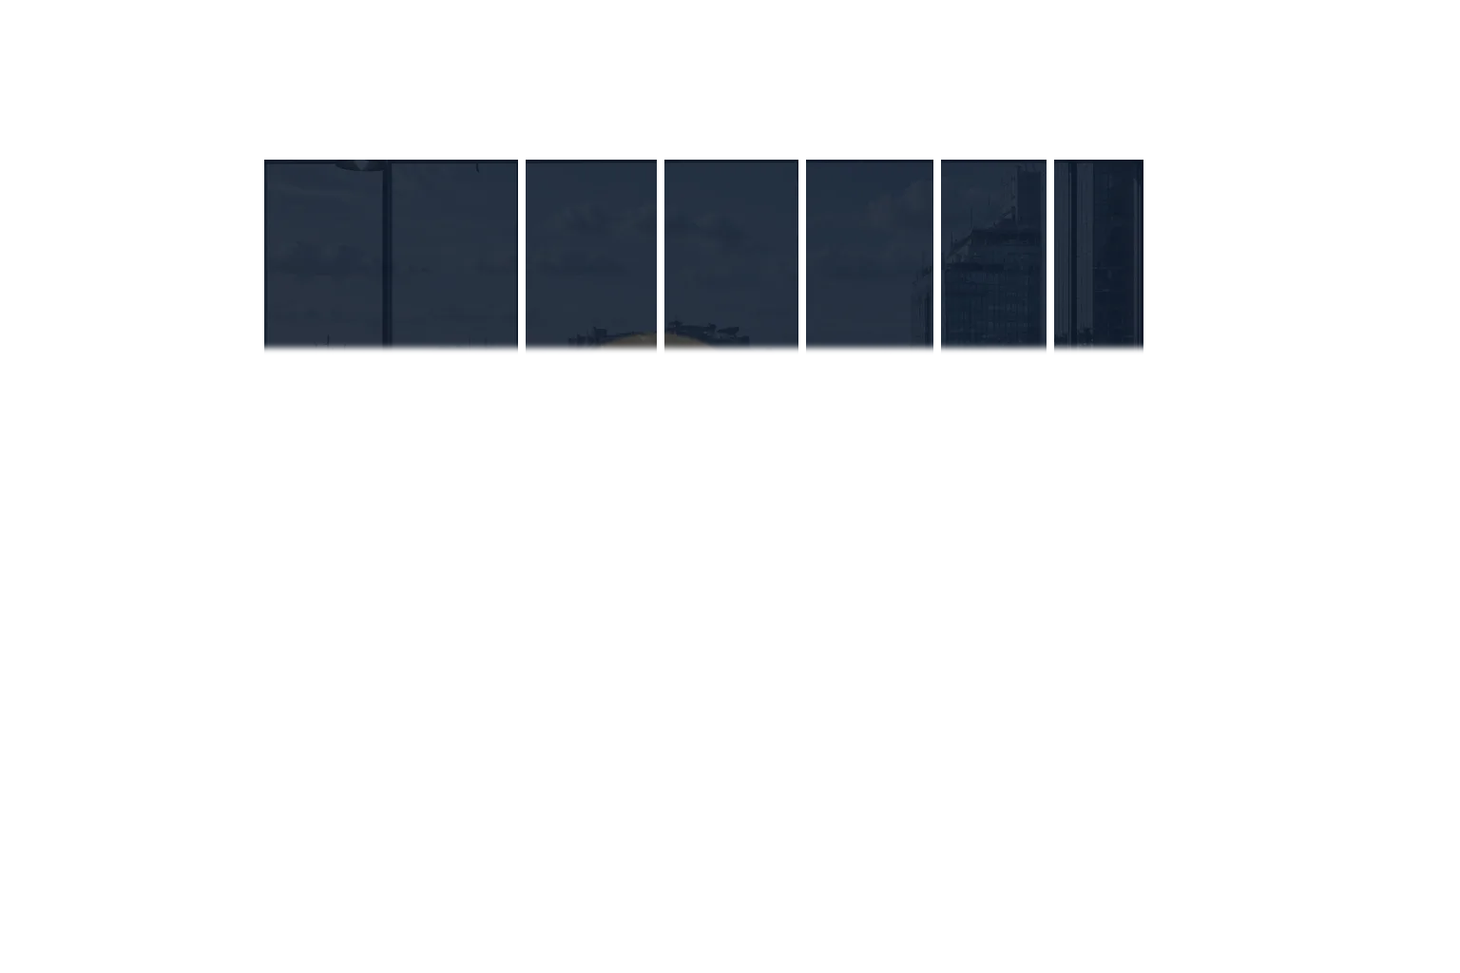
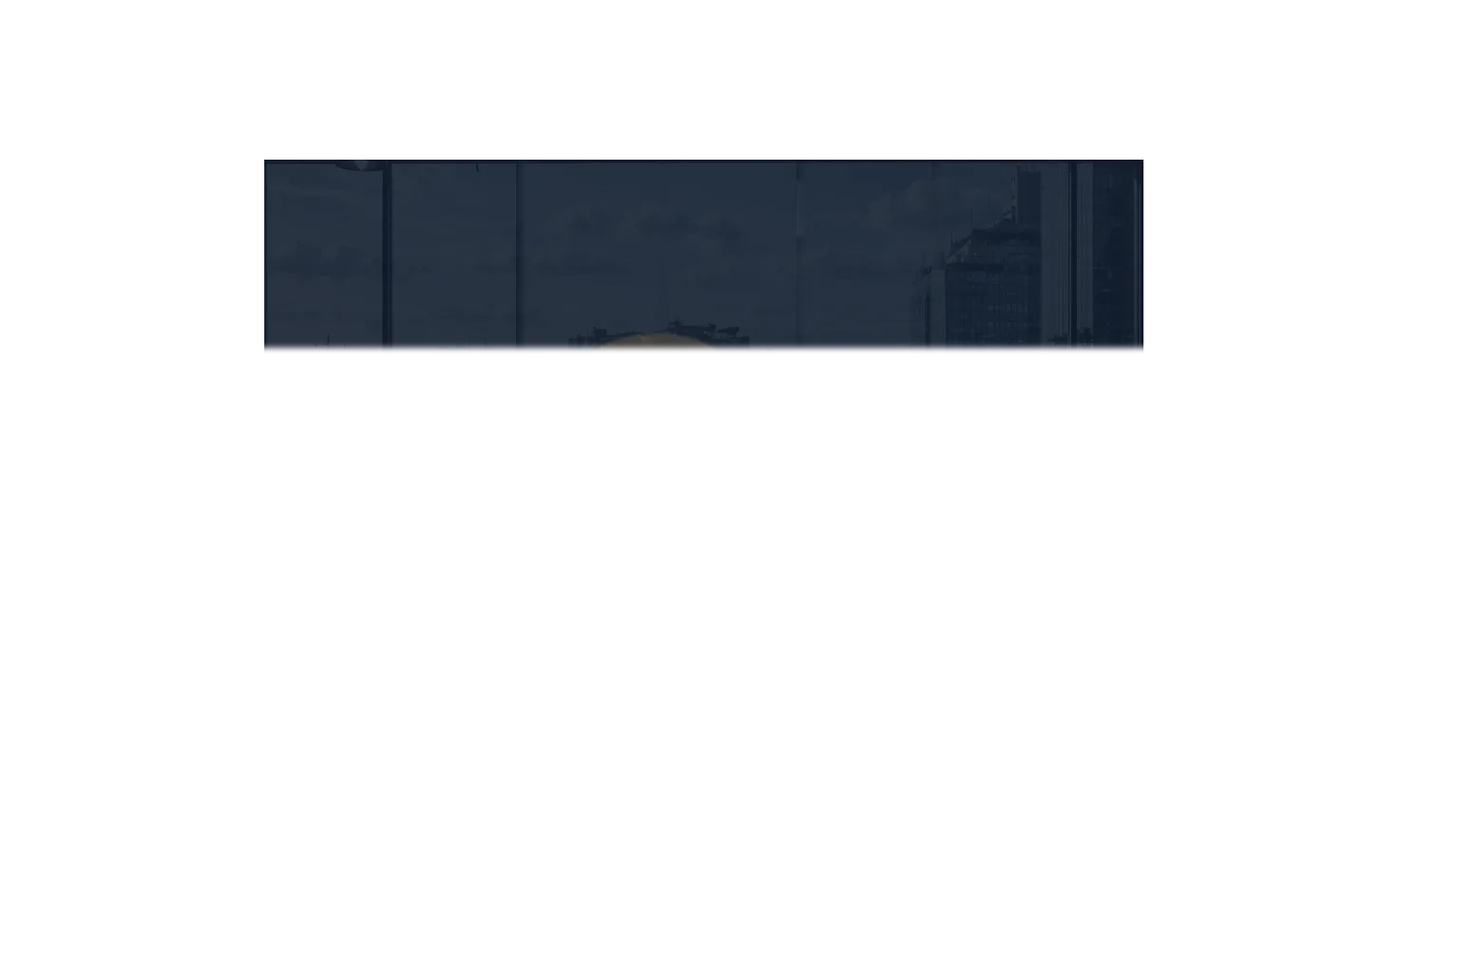
Add live Athens moon animation

diff --git a/src/style.css b/src/style.css
@@ -129,8 +129,11 @@
 .hero-reference,.hero-composite{position:absolute;inset:0;overflow:hidden}.hero-reference img{display:block;width:100%;height:100%;object-fit:contain;object-position:center}
 .hero-composite{isolation:isolate;background:#0b0c0b}.hero-composite__layer{position:absolute;inset:0;pointer-events:none;will-change:transform}.hero-composite__layer>img{display:block;width:100%;height:100%;object-fit:contain;object-position:center}
 .hero-night{position:absolute;z-index:55;inset:0;display:block;overflow:hidden;pointer-events:none;transition:opacity .85s ease}.hero-night img{display:block;width:100%;height:100%;object-fit:contain;object-position:center}
+.acropolis-beams{position:absolute;z-index:55;inset:0;overflow:hidden;pointer-events:none;transition:opacity .85s ease;mix-blend-mode:screen;-webkit-mask:url('/hero/layers/exterior-window-mask.svg') center/cover no-repeat;mask:url('/hero/layers/exterior-window-mask.svg') center/cover no-repeat}.acropolis-beams__canvas{position:absolute;left:50%;top:50%;width:min(100cqw,150cqh);height:min(66.6667cqw,100cqh);transform:translate(-50%,-50%);overflow:hidden}.acropolis-beams__beam{--beam-angle:0deg;--beam-travel:5deg;--beam-x:46%;--beam-y:36%;--beam-width:3.5%;--beam-height:52%;--beam-strength:.22;--beam-delay:0s;--beam-duration:18s;--beam-hue:205;position:absolute;left:var(--beam-x);bottom:calc(100% - var(--beam-y));width:var(--beam-width);height:var(--beam-height);transform:translateX(-50%) rotate(var(--beam-angle)) scaleX(.72);transform-origin:50% 100%;clip-path:polygon(47.5% 100%,52.5% 100%,100% 0,0 0);background:linear-gradient(90deg,transparent,hsl(var(--beam-hue) 92% 66%/.08) 23%,hsl(var(--beam-hue) 100% 82%/.23) 50%,hsl(var(--beam-hue) 92% 63%/.07) 77%,transparent),linear-gradient(0deg,hsl(var(--beam-hue) 100% 77%/.2),hsl(var(--beam-hue) 88% 64%/.055) 64%,transparent);filter:blur(2.4px) drop-shadow(0 0 .8rem hsl(var(--beam-hue) 90% 65%/.12));opacity:0;animation:acropolis-beam-pass var(--beam-duration) cubic-bezier(.42,0,.58,1) var(--beam-delay) 1 both;will-change:transform,opacity}.acropolis-beams__beam::before{content:"";position:absolute;left:50%;bottom:-.25rem;width:240%;height:.8rem;transform:translateX(-50%);border-radius:50%;background:radial-gradient(ellipse,hsl(var(--beam-hue) 100% 79%/.42),hsl(var(--beam-hue) 90% 62%/.12) 38%,transparent 72%);filter:blur(2px)}.acropolis-beams__beam::after{content:"";position:absolute;left:47%;top:10%;width:6%;height:90%;background:linear-gradient(0deg,hsl(var(--beam-hue) 100% 90%/.34),hsl(var(--beam-hue) 100% 75%/.04) 72%,transparent);filter:blur(1px)}.acropolis-beams[data-paused] *{animation-play-state:paused!important}
+@keyframes acropolis-beam-pass{0%,100%{opacity:0;transform:translateX(-50%) rotate(calc(var(--beam-angle) - var(--beam-travel))) scaleX(.62)}18%{opacity:calc(var(--beam-strength) * .62)}48%{opacity:var(--beam-strength);transform:translateX(-50%) rotate(var(--beam-angle)) scaleX(.94)}78%{opacity:calc(var(--beam-strength) * .72)}100%{transform:translateX(-50%) rotate(calc(var(--beam-angle) + var(--beam-travel))) scaleX(.68)}}
 .hero-night-clock{position:absolute;z-index:56;inset:0;overflow:hidden;pointer-events:none;transition:opacity .85s ease;will-change:transform}
 .hero-night-monitors{position:absolute;z-index:56;inset:0;overflow:hidden;pointer-events:none;transition:opacity .85s ease;will-change:transform}
+.moon-sky{position:absolute;z-index:55;inset:0;overflow:hidden;pointer-events:none;transition:opacity .85s ease}.moon-sky__moon{position:absolute;left:var(--moon-x);top:var(--moon-y);width:clamp(2rem,4.2cqw,4.2rem);height:auto;overflow:visible;opacity:var(--moon-opacity);transform:translate(-50%,-50%);filter:drop-shadow(0 0 calc(.45rem + var(--moon-light)*.85rem) rgba(244,241,199,.52));transition:left 58s linear,top 58s linear,opacity 2.2s ease}.moon-sky__glow{fill:#fffbd8;opacity:calc(.08 + var(--moon-light)*.2)}.moon-sky__craters{fill:#696b5b;mix-blend-mode:multiply;opacity:.16}.moon-sky__craters--waxing{transform-origin:center;transform:scaleX(-1)}.moon-sky__cloud{position:absolute;z-index:2;left:calc(var(--moon-x) - 10%);top:calc(var(--moon-y) - 2%);width:25%;height:7%;border-radius:50%;background:radial-gradient(ellipse at 18% 55%,rgba(76,86,104,.82) 0 19%,transparent 21%),radial-gradient(ellipse at 40% 38%,rgba(73,84,101,.86) 0 25%,transparent 27%),radial-gradient(ellipse at 68% 57%,rgba(61,72,89,.85) 0 28%,transparent 30%),linear-gradient(transparent 38%,rgba(53,64,80,.82) 42% 78%,transparent 82%);filter:blur(.12rem);opacity:calc(max(0,(var(--moon-cloud) - .28))*1.25);animation:moon-cloud-drift 13s ease-in-out infinite alternate}.moon-sky__cloud--far{z-index:0;top:calc(var(--moon-y) + 1%);opacity:calc(max(0,(var(--moon-cloud) - .08))*.58);transform:scale(.82);animation-duration:19s}.moon-sky__cloud--near{animation-delay:-5s}.moon-sky--paused *{animation-play-state:paused!important}@keyframes moon-cloud-drift{from{translate:-24% 0}to{translate:30% 6%}}
 .hero-composite__layer--exteriorAtmosphere,.hero-composite__layer--exteriorPrecipitation,.hero-composite__layer--windowGlass{-webkit-mask:url('/hero/layers/exterior-window-mask.svg') center/cover no-repeat;mask:url('/hero/layers/exterior-window-mask.svg') center/cover no-repeat}
 .hero-composite__layer--interiorLighting{-webkit-mask:url('/hero/layers/interior-occlusion-mask.svg') center/cover no-repeat;mask:url('/hero/layers/interior-occlusion-mask.svg') center/cover no-repeat;mix-blend-mode:screen;opacity:.16}
 .app-shell[data-time-phase="day"] .hero-composite__layer--interiorLighting{opacity:.07}.app-shell[data-time-phase="goldenHour"] .hero-composite__layer--interiorLighting{filter:sepia(.55) saturate(1.4);opacity:.19}.app-shell[data-time-phase="dusk"] .hero-composite__layer--interiorLighting{opacity:.28}.app-shell[data-time-phase="night"] .hero-composite__layer--interiorLighting{opacity:.46}.app-shell[data-weather="cloudy"] .hero-composite__layer--interiorLighting,.app-shell[data-weather="rain"] .hero-composite__layer--interiorLighting,.app-shell[data-weather="storm"] .hero-composite__layer--interiorLighting{filter:hue-rotate(12deg) saturate(.82);opacity:.23}
@@ -153,7 +156,7 @@
 @keyframes monitor-code-scroll{0%{transform:translateY(0)}45%,55%{transform:translateY(-20%)}100%{transform:translateY(-43%)}}@keyframes monitor-cursor-blink{0%,48%{opacity:1}49%,100%{opacity:.12}}@keyframes hud-grid-drift{to{background-position:12px 12px}}@keyframes hud-spin{to{transform:translate(-50%,-50%) rotate(360deg)}}@keyframes hud-spin-reverse{to{transform:translate(-50%,-50%) rotate(-360deg)}}@keyframes hud-core-pulse{0%,100%{opacity:.55;transform:translate(-50%,-50%) rotate(45deg) scale(.88)}50%{opacity:1;transform:translate(-50%,-50%) rotate(135deg) scale(1.06)}}@keyframes hud-data-pulse{0%,100%{opacity:.3;transform:scaleX(.55)}50%{opacity:1;transform:scaleX(1)}}@keyframes hud-scan{0%,100%{top:8%;opacity:0}12%,88%{opacity:.8}50%{top:91%}}@keyframes telemetry-wave{0%,100%{height:18%;opacity:.45}50%{height:78%;opacity:1}}@keyframes telemetry-bar{from{filter:hue-rotate(0);transform:scaleX(.78);transform-origin:left}to{filter:hue-rotate(28deg);transform:scaleX(1)}}
 .environment-preview{max-width:min(52rem,calc(100vw - 2rem));max-height:calc(100svh - 2rem);overflow:auto;grid-template-columns:repeat(4,minmax(8rem,auto))}.environment-preview__checks{grid-column:1/-1;display:flex;flex-wrap:wrap;gap:.6rem 1rem}.environment-preview__checks label{display:flex;align-items:center;gap:.35rem}.environment-preview__layers{grid-column:1/-1;border-top:1px solid #ffffff22;padding-top:.5rem}.environment-preview__layers summary{cursor:pointer;color:var(--service)}.environment-preview__layers[open]{display:grid;grid-template-columns:repeat(3,1fr);gap:.3rem}.environment-preview__layers summary{grid-column:1/-1}.environment-preview__layers label{display:flex;align-items:center;gap:.35rem}
 @media(max-width:760px){.hero-reference img,.hero-composite__layer>img{object-position:50% 42%}.hero-composite__layer{inset:0;height:clamp(27rem,57svh,33rem)}.hero-composite{height:clamp(27rem,57svh,33rem)}.hero-debug-mask{inset:0;height:clamp(27rem,57svh,33rem)}.environment-preview{grid-template-columns:1fr 1fr}.environment-preview__layers[open]{grid-template-columns:1fr 1fr}}
-@keyframes hero-clock-breathe{0%,100%{opacity:.88}50%{opacity:1}}@media(prefers-reduced-motion:reduce){.hero-composite__layer{transform:none!important;will-change:auto}.hero-window-glass,.hero-clock__time,.hero-monitors *{animation:none!important}.hero-night,.hero-night-clock,.hero-night-monitors{transition:none}.hero-night-clock,.hero-night-monitors{transform:none!important;will-change:auto}}
+@keyframes hero-clock-breathe{0%,100%{opacity:.88}50%{opacity:1}}@media(prefers-reduced-motion:reduce){.hero-composite__layer{transform:none!important;will-change:auto}.hero-window-glass,.hero-clock__time,.hero-monitors *{animation:none!important}.acropolis-beams{display:none}.hero-night,.hero-night-clock,.hero-night-monitors{transition:none}.hero-night-clock,.hero-night-monitors{transform:none!important;will-change:auto}}
 
 /* Level 01 — quiet, inhabited concrete floor. */
 .about{--about-wall:color-mix(in srgb,var(--concrete-tint,#574f45) 28%,#a39d91);--about-ink:#211f1b;min-height:auto;color:var(--about-ink);overflow:hidden;background:radial-gradient(circle at 76% 24%,rgba(255,211,151,.22),transparent 18rem),radial-gradient(circle at 12% 70%,#3f382f1c,transparent 22rem),repeating-linear-gradient(98deg,transparent 0 8.5rem,#4a443b0a 8.6rem 8.7rem),linear-gradient(106deg,color-mix(in srgb,var(--about-wall) 88%,#c2b9a9),var(--about-wall) 74%,color-mix(in srgb,var(--about-wall) 85%,#7f7567))}.about::before{content:"";position:absolute;inset:0;z-index:-1;opacity:.32;background-image:radial-gradient(circle at 20% 22%,#302c251f 0 1px,transparent 1.6px),radial-gradient(circle at 73% 61%,#f5ead51c 0 1px,transparent 1.4px);background-size:41px 37px,63px 59px;mix-blend-mode:multiply}.about__layout{position:relative;z-index:2;width:min(90rem,calc(100vw - 2*var(--space)));margin:auto;display:grid;grid-template-columns:minmax(7rem,10rem) minmax(20rem,1.15fr) minmax(20rem,.85fr);gap:clamp(2.5rem,5vw,6.5rem);padding:clamp(8rem,12vw,12rem) 0 clamp(7.5rem,11vw,10rem)}.about__rail{align-self:stretch;padding-top:.45rem;border-top:1px solid #39352e4d;font-family:'IBM Plex Mono',monospace;text-transform:uppercase}.about__rail>span,.about__rail>small{display:block;font-size:.62rem;letter-spacing:.15em}.about__rail strong{display:block;margin:.15rem 0;font:500 clamp(3.2rem,5vw,5.2rem)/.9 'Barlow Condensed',sans-serif;color:#51483c}.about__rail small{color:#61594e}.about__floor-dots{display:flex;gap:.45rem;margin-top:1rem}.about__floor-dots i{width:.36rem;height:.36rem;border-radius:50%;background:#655f55}.about__floor-dots i.active{background:#4b9e99;box-shadow:0 0 0 3px #75d9d035}.about__narrative{max-width:42rem}.about .eyebrow{color:#397c79}.about__heading{max-width:10ch!important;color:#28241e;font-size:clamp(4.2rem,7.5vw,7.6rem)!important;line-height:.88!important;text-wrap:balance}.about__introduction{max-width:34rem;margin:2rem 0 0;font:400 clamp(1.2rem,2vw,1.55rem)/1.5 Manrope,sans-serif;color:#302c26}.about__background{max-width:39rem;margin-top:clamp(2rem,5vw,4rem);padding-left:clamp(1rem,2vw,2rem);border-left:1px solid #397c797d}.about__background p{margin:0 0 1.25rem;color:#454038;font-size:clamp(.96rem,1.2vw,1.08rem);line-height:1.75}.about__support{align-self:start;display:grid;gap:2.1rem;padding-top:3.1rem}.about__support>section{padding-top:1rem;border-top:1px solid #332f2947}.about__label{margin:0 0 .9rem;color:#397c79;font:600 .62rem/1.2 'IBM Plex Mono',monospace;text-transform:uppercase;letter-spacing:.16em}.about__support h3{margin:0 0 .45rem;font:500 1.25rem/1.15 'Barlow Condensed',sans-serif;text-transform:uppercase;letter-spacing:.02em}.about__support p:not(.about__label){margin:.35rem 0 0;color:#4c463d;font-size:.88rem;line-height:1.65}.about__principles{list-style:none;margin:0;padding:0}.about__principle{display:grid;grid-template-columns:2rem 1fr;gap:.75rem;padding:.85rem 0;border-bottom:1px solid #332f292b}.about__principle>span{padding-top:.15rem;color:#8a5c34;font:500 .64rem 'IBM Plex Mono',monospace}.about__toolkit{display:grid;gap:.85rem;margin:0}.about__toolkit>div{display:grid;grid-template-columns:6.5rem 1fr;gap:1rem}.about__toolkit dt{color:#554c40;font:600 .63rem 'IBM Plex Mono',monospace;text-transform:uppercase;letter-spacing:.1em}.about__toolkit dd{margin:0}.about__toolkit ul{display:flex;flex-wrap:wrap;gap:.25rem .75rem;list-style:none;margin:0;padding:0}.about__toolkit li{color:#3d3932;font-size:.78rem}.about__toolkit li:not(:last-child)::after{content:" /";color:#8a5c34}

diff --git a/src/components/AcropolisLightBeams.vue b/src/components/AcropolisLightBeams.vue
@@ -1,0 +1,93 @@
+<script setup lang="ts">
+import { onBeforeUnmount, onMounted, ref, watch } from "vue";
+
+const props = defineProps<{ visible: boolean; paused?: boolean }>();
+
+type Beam = { x: number; y: number; angle: number; travel: number; width: number; height: number; intensity: number; delay: number; duration: number; hue: number };
+
+const beams = ref<Beam[]>([]);
+const sequence = ref(0);
+let timer: number | undefined;
+
+const between = (min: number, max: number) => min + Math.random() * (max - min);
+
+function clearTimer() {
+  window.clearTimeout(timer);
+  timer = undefined;
+}
+
+function schedule(delay = between(6_000, 14_000)) {
+  clearTimer();
+  if (!props.visible || props.paused) return;
+  timer = window.setTimeout(playSequence, delay);
+}
+
+function playSequence() {
+  if (!props.visible || props.paused) return;
+
+  const countRoll = Math.random();
+  const count = countRoll < .48 ? 1 : countRoll < .82 ? 2 : 3;
+  const pick = <T,>(items: T[]) => items[Math.floor(Math.random() * items.length)];
+  const left = [{ x: 38.8, y: 38.2 }, { x: 40.7, y: 36.7 }, { x: 42.5, y: 35.8 }];
+  const middle = [{ x: 45.2, y: 35.1 }, { x: 47.6, y: 34.8 }, { x: 49.2, y: 35.3 }];
+  const right = [{ x: 51.1, y: 36.2 }, { x: 52.8, y: 37.4 }, { x: 54.2, y: 38.4 }];
+  const launchPoints = count === 1
+    ? [pick([...left, ...middle, ...right])]
+    : count === 2
+      ? [pick(left), pick(right)]
+      : [pick(left), pick(middle), pick(right)];
+  const palette = [188, 205, 226, 264, 292, 322, 36];
+
+  beams.value = launchPoints.map((point, index) => ({
+    ...point,
+    angle: count === 1 ? between(-15, 15) : index === 0 ? between(7, 16) : index === count - 1 ? between(-16, -7) : between(-4, 4),
+    travel: (index % 2 === 0 ? 1 : -1) * between(3.5, 7.5),
+    width: between(2.5, 4.4),
+    height: between(43, 59),
+    intensity: between(.16, .3),
+    delay: index * between(.7, 1.5),
+    duration: between(15, 22),
+    hue: palette[Math.floor(Math.random() * palette.length)],
+  }));
+  sequence.value += 1;
+
+  const performanceLength = Math.max(...beams.value.map((beam) => beam.delay + beam.duration)) * 1_000 + 750;
+  timer = window.setTimeout(() => {
+    beams.value = [];
+    schedule(between(9_000, 24_000));
+  }, performanceLength);
+}
+
+watch(() => [props.visible, props.paused], ([visible, paused]) => {
+  clearTimer();
+  beams.value = [];
+  if (visible && !paused) schedule();
+});
+
+onMounted(() => { if (props.visible && !props.paused) schedule(); });
+onBeforeUnmount(clearTimer);
+</script>
+
+<template>
+  <div class="acropolis-beams" :data-paused="paused || undefined">
+    <div class="acropolis-beams__canvas">
+      <i
+        v-for="(beam, index) in beams"
+        :key="`${sequence}-${index}`"
+        class="acropolis-beams__beam"
+        :style="{
+          '--beam-angle': `${beam.angle}deg`,
+          '--beam-travel': `${beam.travel}deg`,
+          '--beam-x': `${beam.x}%`,
+          '--beam-y': `${beam.y}%`,
+          '--beam-width': `${beam.width}%`,
+          '--beam-height': `${beam.height}%`,
+          '--beam-strength': beam.intensity,
+          '--beam-delay': `${beam.delay}s`,
+          '--beam-duration': `${beam.duration}s`,
+          '--beam-hue': beam.hue,
+        }"
+      />
+    </div>
+  </div>
+</template>

diff --git a/src/components/MoonSky.vue b/src/components/MoonSky.vue
@@ -1,0 +1,47 @@
+<script setup lang="ts">
+import { computed, onBeforeUnmount, onMounted, ref } from "vue";
+import type { EnvironmentState } from "../types/environment";
+import { getMoonAppearance } from "../services/moonMath";
+
+const props = defineProps<{ state: EnvironmentState; paused?: boolean }>();
+const now = ref(new Date());
+const moon = computed(() => getMoonAppearance(now.value));
+const arcX = computed(() => 21 + moon.value.progress * 48);
+const arcY = computed(() => 31 - Math.sin(moon.value.progress * Math.PI) * 12);
+const cloudiness = computed(() => Math.min(1, Math.max(0, props.state.cloudCover / 100)));
+const moonOpacity = computed(() => {
+  if (!moon.value.visible || (props.state.timePhase !== "night" && props.state.timePhase !== "dusk")) return 0;
+  return Math.max(.1, 1 - cloudiness.value * .7);
+});
+const style = computed(() => ({
+  "--moon-x": `${arcX.value}%`, "--moon-y": `${arcY.value}%`,
+  "--moon-opacity": moonOpacity.value.toFixed(3), "--moon-light": moon.value.illumination.toFixed(3),
+  "--moon-cloud": cloudiness.value.toFixed(3),
+}));
+let timer: number | undefined;
+
+function tick() { now.value = new Date(); }
+onMounted(() => { tick(); timer = window.setInterval(tick, 60_000); });
+onBeforeUnmount(() => window.clearInterval(timer));
+</script>
+
+<template>
+  <div class="moon-sky" :class="{ 'moon-sky--paused': paused }" :style="style">
+    <svg class="moon-sky__moon" viewBox="0 0 100 100" role="img" :aria-label="moon.label">
+      <defs>
+        <radialGradient id="moon-surface" cx="38%" cy="32%" r="72%">
+          <stop offset="0" stop-color="#fffde4"/><stop offset=".58" stop-color="#f2edc8"/><stop offset="1" stop-color="#c9c59f"/>
+        </radialGradient>
+        <filter id="moon-grain"><feTurbulence baseFrequency=".085" numOctaves="3" seed="12" type="fractalNoise"/><feBlend in="SourceGraphic" mode="multiply"/></filter>
+        <clipPath id="moon-disc"><circle cx="50" cy="50" r="49"/></clipPath>
+      </defs>
+      <circle class="moon-sky__glow" cx="50" cy="50" r="48"/>
+      <circle cx="50" cy="50" r="49" fill="#101725"/>
+      <path :d="moon.path" fill="url(#moon-surface)" filter="url(#moon-grain)" clip-path="url(#moon-disc)"/>
+      <g class="moon-sky__craters" :class="{ 'moon-sky__craters--waxing': moon.waxing }" clip-path="url(#moon-disc)">
+        <circle cx="35" cy="33" r="6"/><circle cx="65" cy="58" r="8"/><circle cx="44" cy="72" r="4"/><circle cx="70" cy="27" r="3"/>
+      </g>
+    </svg>
+    <div class="moon-sky__cloud moon-sky__cloud--far"/><div class="moon-sky__cloud moon-sky__cloud--near"/>
+  </div>
+</template>

diff --git a/src/composables/useEnvironment.ts b/src/composables/useEnvironment.ts
@@ -18,7 +18,7 @@ export function provideEnvironment() {
   const source = ref<EnvironmentSource>("fallback"); const loading = ref(true); const error = ref<string | null>(null);
   const lastUpdated = ref(now.value); const previewTimePhase = ref<TimePhase | null>(null); const previewWeather = ref<WeatherCondition | null>(null);
   const previewIntensity = ref<EffectIntensity>("auto");
-  const heroCompositeMode = ref<HeroCompositeMode>("layers"); const hiddenHeroLayers = ref<HeroLayerId[]>([]);
+  const heroCompositeMode = ref<HeroCompositeMode>("reference"); const hiddenHeroLayers = ref<HeroLayerId[]>([]);
   const showExteriorMask = ref(false); const showInteriorMask = ref(false); const tintHeroLayers = ref(false); const freezeParallax = ref(false);
   let clockTimer: number | undefined; let refreshTimer: number | undefined; let controller: AbortController | undefined; let activeRequest: Promise<void> | null = null;
 
@@ -61,7 +61,7 @@ export function provideEnvironment() {
 
   onMounted(() => { initialize(); scheduleClockTick(); document.addEventListener("visibilitychange", onVisibilityChange); });
   onBeforeUnmount(() => { window.clearTimeout(clockTimer); window.clearTimeout(refreshTimer); controller?.abort(); document.removeEventListener("visibilitychange", onVisibilityChange); });
-  const context: EnvironmentContext = { state: readonly(state), timePhases: TIME_PHASES, weatherConditions: WEATHER_CONDITIONS, heroLayerIds: HERO_LAYER_IDS, previewTimePhase, previewWeather, previewIntensity, heroCompositeMode, hiddenHeroLayers, showExteriorMask, showInteriorMask, tintHeroLayers, freezeParallax, resetPreview: () => { previewTimePhase.value = null; previewWeather.value = null; previewIntensity.value = "auto"; heroCompositeMode.value = "layers"; hiddenHeroLayers.value = []; showExteriorMask.value = false; showInteriorMask.value = false; tintHeroLayers.value = false; freezeParallax.value = false; } };
+  const context: EnvironmentContext = { state: readonly(state), timePhases: TIME_PHASES, weatherConditions: WEATHER_CONDITIONS, heroLayerIds: HERO_LAYER_IDS, previewTimePhase, previewWeather, previewIntensity, heroCompositeMode, hiddenHeroLayers, showExteriorMask, showInteriorMask, tintHeroLayers, freezeParallax, resetPreview: () => { previewTimePhase.value = null; previewWeather.value = null; previewIntensity.value = "auto"; heroCompositeMode.value = "reference"; hiddenHeroLayers.value = []; showExteriorMask.value = false; showInteriorMask.value = false; tintHeroLayers.value = false; freezeParallax.value = false; } };
   provide(environmentKey, context); return context;
 }
 

diff --git a/src/services/moonMath.ts b/src/services/moonMath.ts
@@ -1,0 +1,66 @@
+import * as SunCalc from "suncalc";
+import { ATHENS } from "../config/environment";
+
+export interface MoonAppearance {
+  visible: boolean;
+  progress: number;
+  illumination: number;
+  phase: number;
+  waxing: boolean;
+  path: string;
+  label: string;
+}
+
+const clamp = (value: number, min = 0, max = 1) => Math.min(max, Math.max(min, value));
+
+function phaseLabel(phase: number) {
+  if (phase < .03 || phase > .97) return "new moon";
+  if (phase < .22) return "waxing crescent";
+  if (phase < .28) return "first quarter";
+  if (phase < .47) return "waxing gibbous";
+  if (phase < .53) return "full moon";
+  if (phase < .72) return "waning gibbous";
+  if (phase < .78) return "last quarter";
+  return "waning crescent";
+}
+
+function moonPath(phase: number) {
+  const waxing = phase < .5;
+  const controlX = waxing
+    ? 50 + 100 * Math.cos(phase * Math.PI * 2)
+    : 50 - 100 * Math.cos(phase * Math.PI * 2);
+  const outerSweep = waxing ? 1 : 0;
+  return `M 50 0 A 50 50 0 0 ${outerSweep} 50 100 Q ${controlX.toFixed(2)} 50 50 0 Z`;
+}
+
+function nearestMoonArc(now: Date) {
+  const events: { kind: "rise" | "set"; time: number }[] = [];
+  for (let offset = -2; offset <= 2; offset += 1) {
+    const date = new Date(now); date.setDate(date.getDate() + offset); date.setHours(12, 0, 0, 0);
+    const times = SunCalc.getMoonTimes(date, ATHENS.latitude, ATHENS.longitude);
+    if (times.rise) events.push({ kind: "rise", time: times.rise.getTime() });
+    if (times.set) events.push({ kind: "set", time: times.set.getTime() });
+  }
+  events.sort((a, b) => a.time - b.time);
+  const current = now.getTime();
+  const rise = [...events].reverse().find((event) => event.kind === "rise" && event.time <= current);
+  const set = events.find((event) => event.kind === "set" && event.time >= current);
+  if (!rise || !set || rise.time >= set.time) return null;
+  return clamp((current - rise.time) / (set.time - rise.time));
+}
+
+export function getMoonAppearance(now: Date): MoonAppearance {
+  const illumination = SunCalc.getMoonIllumination(now);
+  const position = SunCalc.getMoonPosition(now, ATHENS.latitude, ATHENS.longitude);
+  const progress = nearestMoonArc(now);
+  const phase = clamp(illumination.phase);
+  return {
+    visible: progress !== null && position.altitude > -.035 && illumination.fraction > .015,
+    progress: progress ?? .5,
+    illumination: clamp(illumination.fraction),
+    phase,
+    waxing: phase < .5,
+    path: moonPath(phase),
+    label: phaseLabel(phase),
+  };
+}

diff --git a/src/components/HeroVisual.vue b/src/components/HeroVisual.vue
@@ -7,6 +7,8 @@ import { useEnvironment } from "../composables/useEnvironment";
 import WeatherEffects from "./WeatherEffects.vue";
 import HeroClock from "./HeroClock.vue";
 import HeroMonitorAnimations from "./HeroMonitorAnimations.vue";
+import AcropolisLightBeams from "./AcropolisLightBeams.vue";
+import MoonSky from "./MoonSky.vue";
 
 const { state, previewIntensity, heroCompositeMode, hiddenHeroLayers, showExteriorMask, showInteriorMask, tintHeroLayers, freezeParallax } = useEnvironment();
 const root = ref<HTMLElement>(); const compositeFailed = ref(false); const documentHidden = ref(document.visibilityState === "hidden");
@@ -60,6 +62,8 @@ onBeforeUnmount(() => { document.removeEventListener("visibilitychange", onVisib
     <picture class="hero-night" :style="{ opacity: nightOpacity }">
       <img src="/hero/athens-coder-loft-night.png" width="1536" height="1024" alt="" decoding="async">
     </picture>
+    <MoonSky :state="state" :paused="documentHidden" :style="{ opacity: nightOpacity }" />
+    <AcropolisLightBeams :visible="nightOpacity > 0" :paused="documentHidden" :style="{ opacity: nightOpacity }" />
     <div class="hero-night-clock" :style="{ opacity: nightOpacity }">
       <HeroClock />
     </div>
